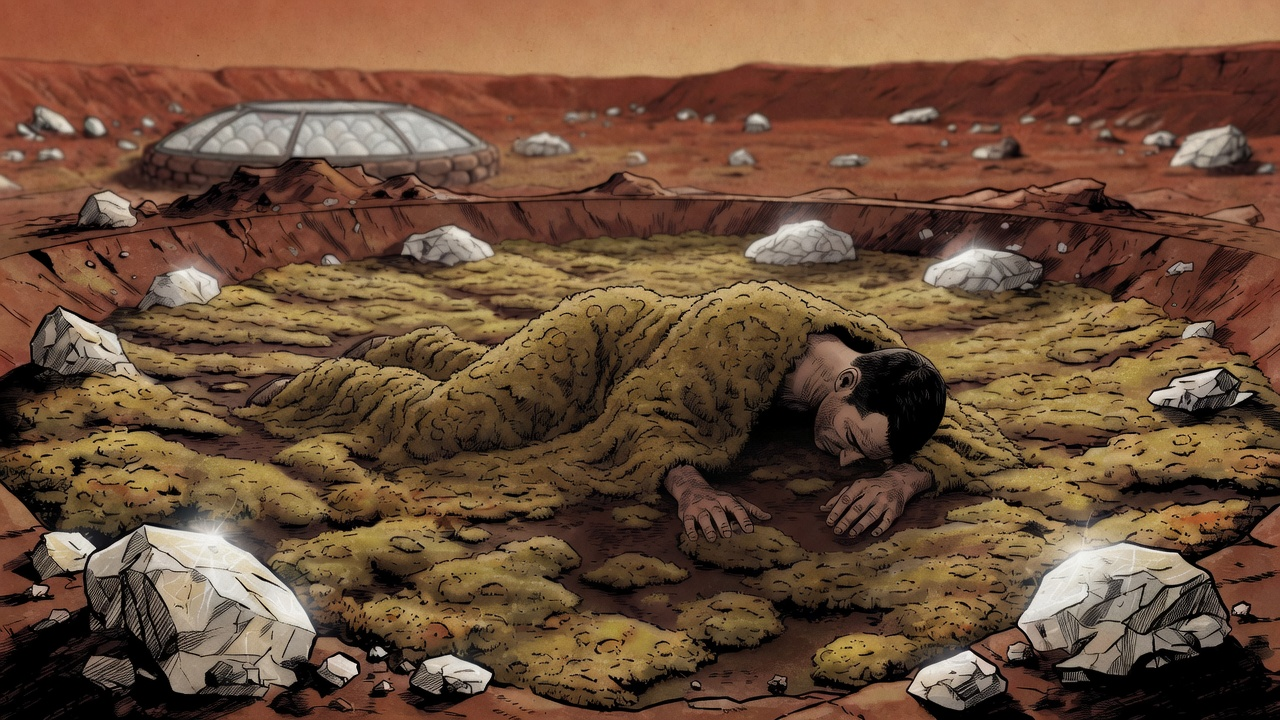
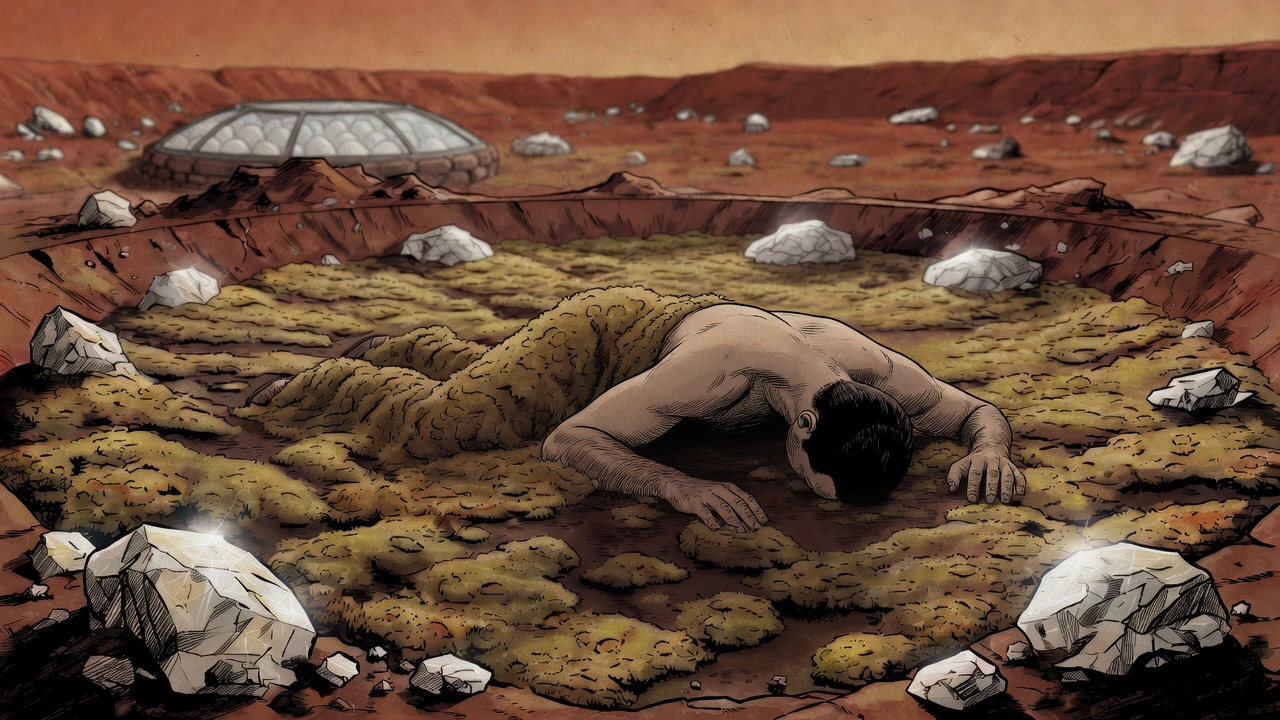
Replace the clothed space flight with a body silhouette
Chapter II pages 7–8 float toward Mars as an unclothed silhouette. Chapter III opens face-down in the moss.

diff --git a/books/barsoom/a-princess-of-mars/chapter-02/index.html b/books/barsoom/a-princess-of-mars/chapter-02/index.html
@@ -314,7 +314,7 @@ body {
   <div class="grid">
     <figure class="panel span3 wide">
       <div class="art">
-        <img src="panels/p7-02.jpg" alt="">
+        <img src="panels/p8-void.jpg" alt="">
         <div class="cap">Utter darkness.</div>
       </div>
       <figcaption class="talk"><p><b>Carter</b> There was an instant of extreme cold and utter darkness.</p></figcaption>
